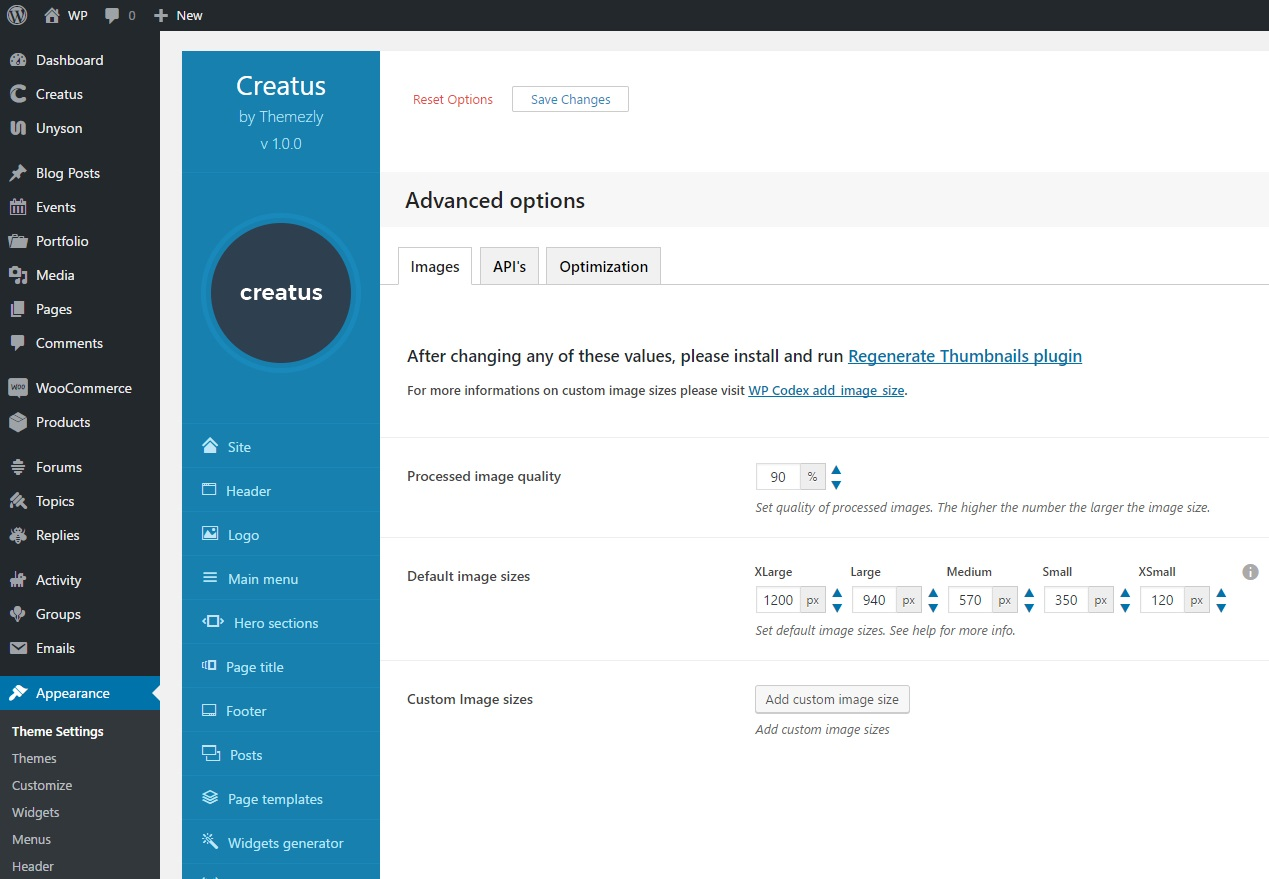
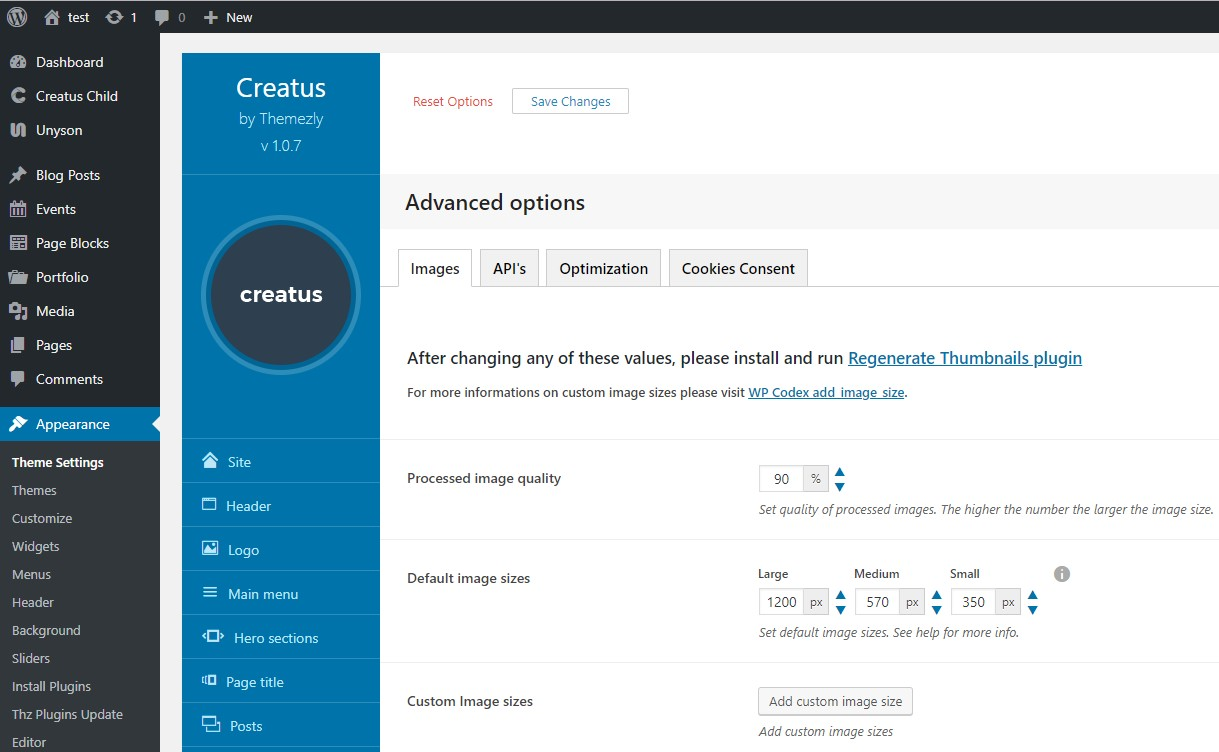
options update

diff --git a/pages/theme-settings/advanced-options.md b/pages/theme-settings/advanced-options.md
@@ -1,7 +1,7 @@
 <div class="thz-lightbox-gallery" markdown="1">
 <div class="thz-doc-image max">
-<a class="thz-lightbox mfp-image" href="../../docs-media/advanced-options.jpg" data-mfp-title="Creatus WordPress Theme Advanced options" data-modal-size="large">
-	<img src="../../docs-media/advanced-options.jpg" alt="Creatus WordPress Theme Advanced options" />
+<a class="thz-lightbox mfp-image" href="../../docs-media/advanced-options.jpg?v=2" data-mfp-title="Creatus WordPress Theme Advanced options" data-modal-size="large">
+	<img src="../../docs-media/advanced-options.jpg?v=2" alt="Creatus WordPress Theme Advanced options" />
 </a>
 </div>
 
@@ -15,14 +15,15 @@ To access Creatus __Advanced Options__ please go to __Appearance__ >  __Theme Se
 1. <a href="#images" class="thz-scroll">__Images__</a> &nbsp;-&nbsp; Global images size options.
 1. <a href="#apis" class="thz-scroll">__API's__</a> &nbsp;-&nbsp; Global API's options.
 1. <a href="#optimization" class="thz-scroll">__Optimization__</a> &nbsp;-&nbsp; Global Optimization options.
+1. <a href="#cookies-consent" class="thz-scroll">__Cookies Consent__</a> &nbsp;-&nbsp; Cookies Consent options.
 
 &nbsp;
 
 <div id="images" markdown="1">
 ### Images
 <div class="thz-doc-image max">
-<a class="thz-lightbox mfp-image" href="../../docs-media/advanced-images-options.jpg" data-mfp-title="Creatus WordPress Theme Advanced images options" data-modal-size="large">
-	<img src="../../docs-media/advanced-images-options.jpg" alt="Creatus WordPress Theme Advanced images options" />
+<a class="thz-lightbox mfp-image" href="../../docs-media/advanced-images-options.jpg?v=2" data-mfp-title="Creatus WordPress Theme Advanced images options" data-modal-size="large">
+	<img src="../../docs-media/advanced-images-options.jpg?v=2" alt="Creatus WordPress Theme Advanced images options" />
 </a>
 </div>
 
@@ -39,8 +40,8 @@ __Images__ section tab contains following options;
 <div id="apis" markdown="1">
 ### API's
 <div class="thz-doc-image max">
-<a class="thz-lightbox mfp-image" href="../../docs-media/apis-options.jpg" data-mfp-title="Creatus WordPress Theme Advanced API's options" data-modal-size="large">
-	<img src="../../docs-media/apis-options.jpg" alt="Creatus WordPress Theme Advanced API's options" />
+<a class="thz-lightbox mfp-image" href="../../docs-media/apis-options.jpg?v=2" data-mfp-title="Creatus WordPress Theme Advanced API's options" data-modal-size="large">
+	<img src="../../docs-media/apis-options.jpg?v=2" alt="Creatus WordPress Theme Advanced API's options" />
 </a>
 </div>
 
@@ -59,8 +60,8 @@ __API's__ section tab contains following options;
 <div id="optimization" markdown="1">
 ### Optimization
 <div class="thz-doc-image max">
-<a class="thz-lightbox mfp-image" href="../../docs-media/optimizations-options.jpg" data-mfp-title="Creatus WordPress Theme Advanced Optimization options" data-modal-size="large">
-	<img src="../../docs-media/optimizations-options.jpg" alt="Creatus WordPress Theme Advanced Optimization options" />
+<a class="thz-lightbox mfp-image" href="../../docs-media/optimizations-options.jpg?v=2" data-mfp-title="Creatus WordPress Theme Advanced Optimization options" data-modal-size="large">
+	<img src="../../docs-media/optimizations-options.jpg?v=2" alt="Creatus WordPress Theme Advanced Optimization options" />
 </a>
 </div>
 
@@ -73,6 +74,45 @@ __Optimization__ section tab contains following options;
 1. __Remove ver query strings__ &nbsp;-&nbsp; Remove ver query string from CSS/JS files.
 </div>
 
+&nbsp;
 
+<div id="cookies-consent" markdown="1">
+### Cookies Consent
+<div class="thz-doc-image max">
+<a class="thz-lightbox mfp-image" href="../../docs-media/cookies-consent.jpg" data-mfp-title="Creatus WordPress Theme Cookies Consent" data-modal-size="large">
+	<img src="../../docs-media/cookies-consent.jpg" alt="Creatus WordPress Theme Cookies Consent" />
+</a>
+</div>
+
+__Cookies Consent__ section tab contains following options;
+
+1. __Cookies consent__  &nbsp;-&nbsp; Activate/deactivate cookie consent banner. Please note that this is a simple cookie banner that only informs visitors about your websites use of cookies. __Using this option does not guarantee your GDPR compliance__. This banner does not record the visitors consent. When visitor clicks on the accept button the banner is not displayed anymore.
+1. __Consent settings__ Customize consent content and style.
+
+__Cookies consent settings__ section tab contains following options;
+
+### Cookies consent popup
+
+<div class="thz-doc-image max">
+<a class="thz-lightbox mfp-image" href="../../docs-media/cookies-consent-popup.jpg?v=2" data-mfp-title="Creatus WordPress Theme Cookies Consent" data-modal-size="large">
+	<img src="../../docs-media/cookies-consent-popup.jpg?v=2" alt="Creatus WordPress Theme Cookies Consent" />
+</a>
+</div>
+
+__Defaults__ section tab contains following options;
+
+1. __Consent box style__  &nbsp;-&nbsp; Adjust #thz_cookies_consent box style.
+1. __Container box style__ &nbsp;-&nbsp; Adjust .thz-consent-container box style.
+1. __Consent font__ &nbsp;-&nbsp; Consent font metrics.
+1. __Link colors__ &nbsp;-&nbsp; Adjust link colors.
+1. __Animate consent__ &nbsp;-&nbsp; Add animation to the consent container.
+
+__Text__ section tab contains following options;
+
+1. __Consent text__ &nbsp;-&nbsp; Add consent popup text.
+
+__Button__ section tab contains following options;
+
+1. __Create button__ &nbsp;-&nbsp; Customize the consent popup button.
 
 </div>
